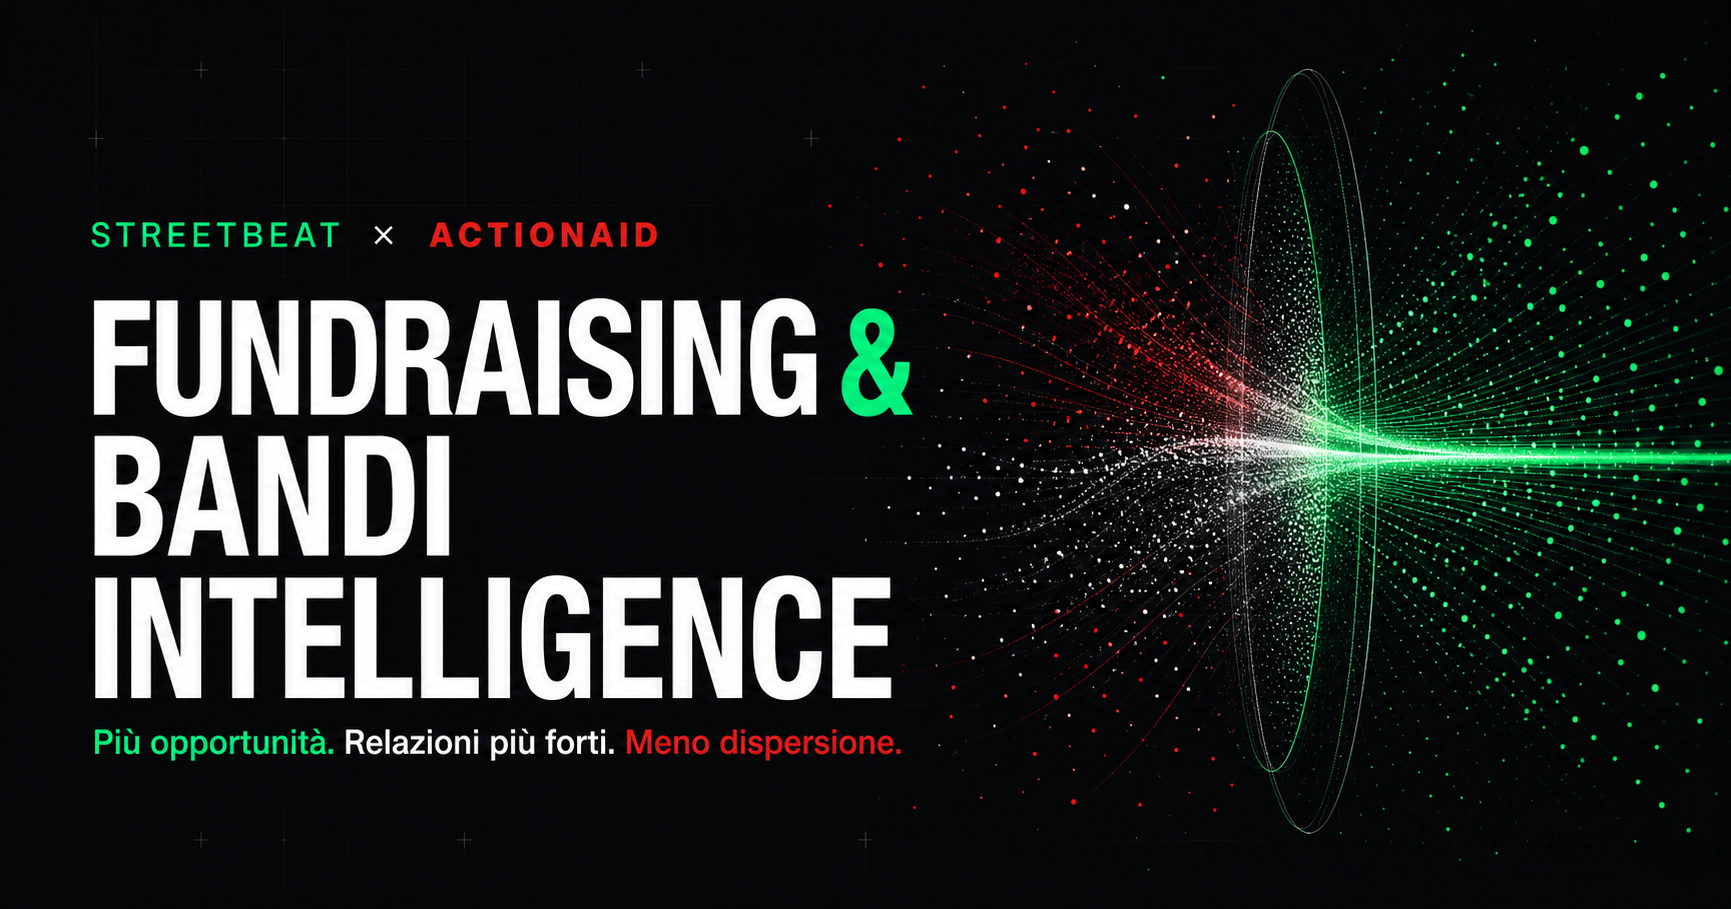
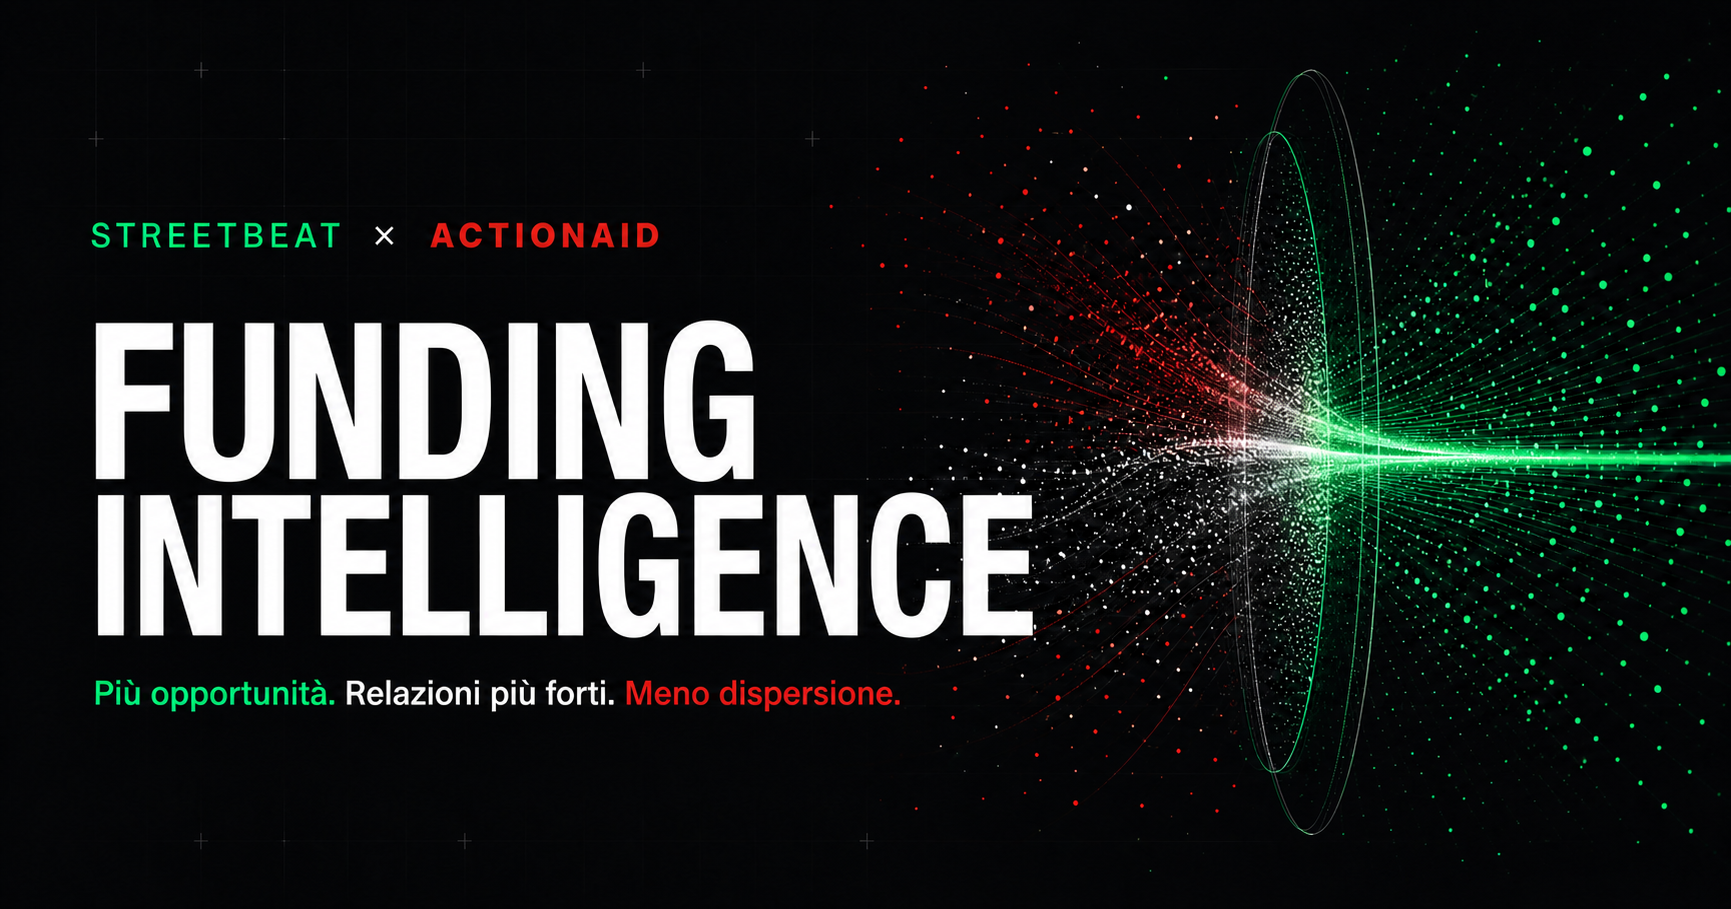
Rename ActionAid product to Funding Intelligence

diff --git a/app/page.tsx b/app/page.tsx
@@ -106,7 +106,7 @@ export default function Home() {
             <em> Meno dispersione.</em>
           </h1>
           <p>
-            Fundraising & Bandi Intelligence connette CRM, opportunità, evidenze,
+            Funding Intelligence connette CRM, opportunità, evidenze,
             contenuti e scadenze per aiutare ActionAid a scegliere meglio dove
             investire e preparare più rapidamente la prossima azione.
           </p>
@@ -124,7 +124,7 @@ export default function Home() {
           </div>
         </div>
 
-        <div className="hero-stage" aria-label="Anteprima di ActionAid Fundraising e Bandi Intelligence">
+        <div className="hero-stage" aria-label="Anteprima di ActionAid Funding Intelligence">
           <div className="photo-card">
             <img
               src={asset("/actionaid-citizenship.jpg")}
@@ -377,7 +377,7 @@ export default function Home() {
         <div className="final-copy">
           <span>STREETBEAT × ACTIONAID</span>
           <h2>Partire dal core.<br />Misurare il valore.<br /><em>Estendere ciò che funziona.</em></h2>
-          <p>Entra nella demo e prova una giornata operativa di ActionAid Fundraising & Bandi Intelligence.</p>
+          <p>Entra nella demo e prova una giornata operativa di ActionAid Funding Intelligence.</p>
           <Link className="button button-primary" href="/demo">Esplora la demo <span>→</span></Link>
         </div>
       </section>

diff --git a/app/layout.tsx b/app/layout.tsx
@@ -4,7 +4,7 @@ import "./globals.css";
 const publicBasePath = process.env.NEXT_PUBLIC_BASE_PATH ?? "";
 
 export const metadata: Metadata = {
-  title: "ActionAid Fundraising & Bandi Intelligence | Streetbeat",
+  title: "ActionAid Funding Intelligence | Streetbeat",
   description:
     "Concept Streetbeat per trasformare bandi, segnali di relazione, rischi e conoscenza in decisioni e azioni per ActionAid.",
   icons: {
@@ -12,7 +12,7 @@ export const metadata: Metadata = {
     shortcut: `${publicBasePath}/favicon.svg`,
   },
   openGraph: {
-    title: "ActionAid Fundraising & Bandi Intelligence | Streetbeat",
+    title: "ActionAid Funding Intelligence | Streetbeat",
     description: "Più opportunità. Relazioni più forti. Meno dispersione.",
     images: [`${publicBasePath}/og.png`],
   },

diff --git a/app/demo/page.tsx b/app/demo/page.tsx
@@ -2,7 +2,7 @@ import type { Metadata } from "next";
 import DemoWorkspace from "./DemoWorkspace";
 
 export const metadata: Metadata = {
-  title: "Demo | ActionAid Fundraising & Bandi Intelligence",
+  title: "Demo | ActionAid Funding Intelligence",
   description:
     "Workspace dimostrativo Streetbeat per fundraising, bandi e adozione responsabile dell’AI in ActionAid.",
 };

diff --git a/app/demo/DemoWorkspace.tsx b/app/demo/DemoWorkspace.tsx
@@ -60,7 +60,7 @@ const sectionCopy: Record<
   }
 > = {
   mission: {
-    eyebrow: "FUNDRAISING & BANDI LIVE",
+    eyebrow: "FUNDING INTELLIGENCE LIVE",
     title: "Funding Control",
     description: "Opportunità, next best actions, rischi e alert per fundraising e bandi.",
     insight: "Due opportunità possono avanzare. Un rischio e una scadenza richiedono presidio.",
